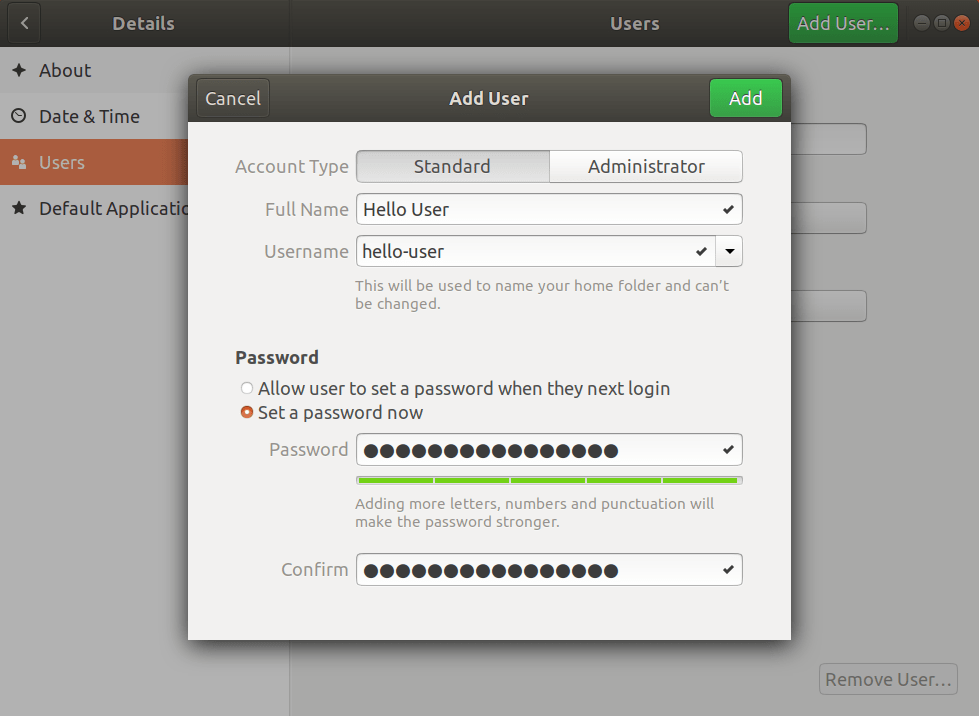
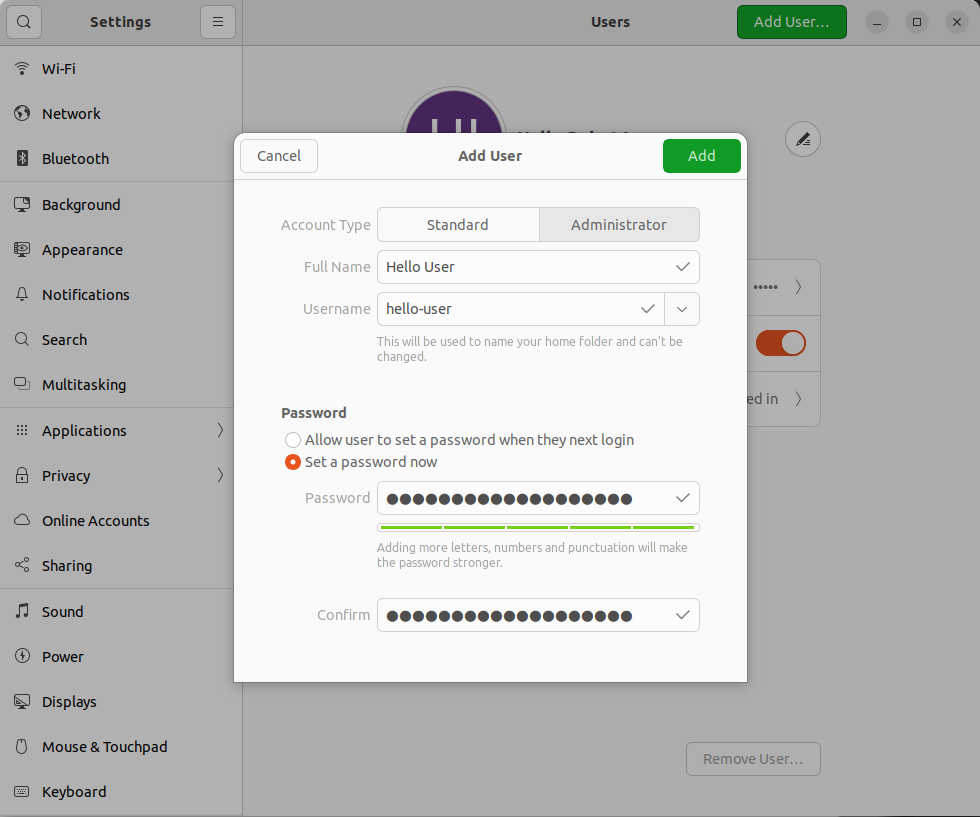
Update docs for adding new users

diff --git a/docs/add_new_user.md b/docs/add_new_user.md
@@ -2,40 +2,45 @@
 
 ## Why
 
-When multiple people are working with the robot, it can be helpful to create separate Ubuntu user accounts. Here's a few reasons you might add a new user:
+If you're sharing Stretch with other developers, it can be helpful to create separate accounts for yourself and your team members. Your code and data will be password protected in your own account, and other developers can modify their own code without accidentally affecting yours.
 
- - Your code and data is protected by password in your user account
- - Your code is dependent on a specific version of Stretch's software and you don't want other users to accidentally upgrade it (NOTE: some of Stretch's software is installed per user, e.g. Stretch Body and Stretch ROS, whereas other parts of the software is installed per OS, e.g. ROS1 or ROS2)
- - Logs from your experiments will not be mixed with logs from other users
+!!! warning
 
-Finally, note that changes made in your user account can break another user account's set up. For example, if you configure a different gripper or end effector onto the robot with your account, other accounts will have outdated configurations for what gripper is attached to the robot.
+    User accounts cannot completely insulate your account from changes in another. For example, if someone attaches a new gripper or end-effector tool to the robot, your account's software would have an outdated configuration for what tool is attached to the robot. A non-exhaustive list of changes that could break/affect accounts:
+
+      - Making hardware changes to the robot
+      - Updating the firmware
+      - Installing/changing [APT packages](#apt-package-manager)
 
 ## How
 
-Login to the "hello-robot" user. The "hello-robot" user account has administrator privileges. Go to Users system settings and unlock the administrator actions.
+Start by logging into the admin Hello Robot user. Go to Users system settings and unlock adminstrator actions.
 
 ![](./images/unlock_users.png)
 
-Click "Add User..." and complete the subsequent form.
+Click "Add User..." and complete the subsequent form. The new user needs to be an administrator.
 
 ![](./images/adding_new_user.png)
 
-Logout and the log back in as the new user. Open a terminal and execute the following to pull down the Stretch Install repository.
+Log out and back in as the new user. Open a terminal and execute the following to pull down the Stretch Install repository:
 
-```bash
-cd ~
-git clone https://github.com/hello-robot/stretch_install
-cd stretch_install
-git pull
+```{.bash .shell-prompt .copy}
+git clone https://github.com/hello-robot/stretch_install ~/stretch_install
 ```
 
-Execute the following to set up the new user account with Stretch packages and the robot's configuration data.
+Make sure it's up-to-date:
 
-```bash
+```{.bash .shell-prompt .copy}
+cd ~/stretch_install && git pull
+```
+
+Run the new user install script to set up the SDK for this new account:
+
+```{.bash .shell-prompt .copy}
 ./stretch_new_user_install.sh
 ```
 
-Finally, reboot your robot and execute the following to confirm the new user account was set up successfully.
+Finally, reboot the robot and run a system check in the new user account to confirm everything was set up correctly.
 
 ```bash
 stretch_system_check.py
